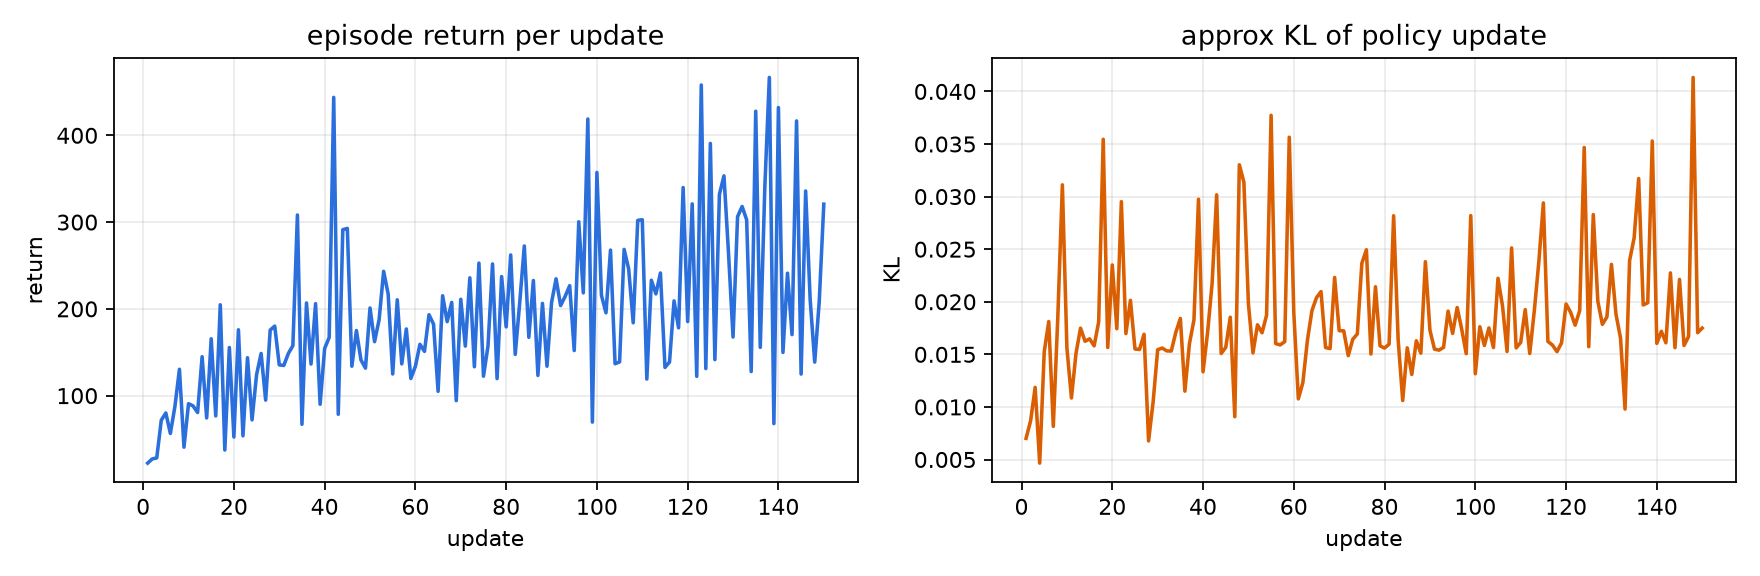
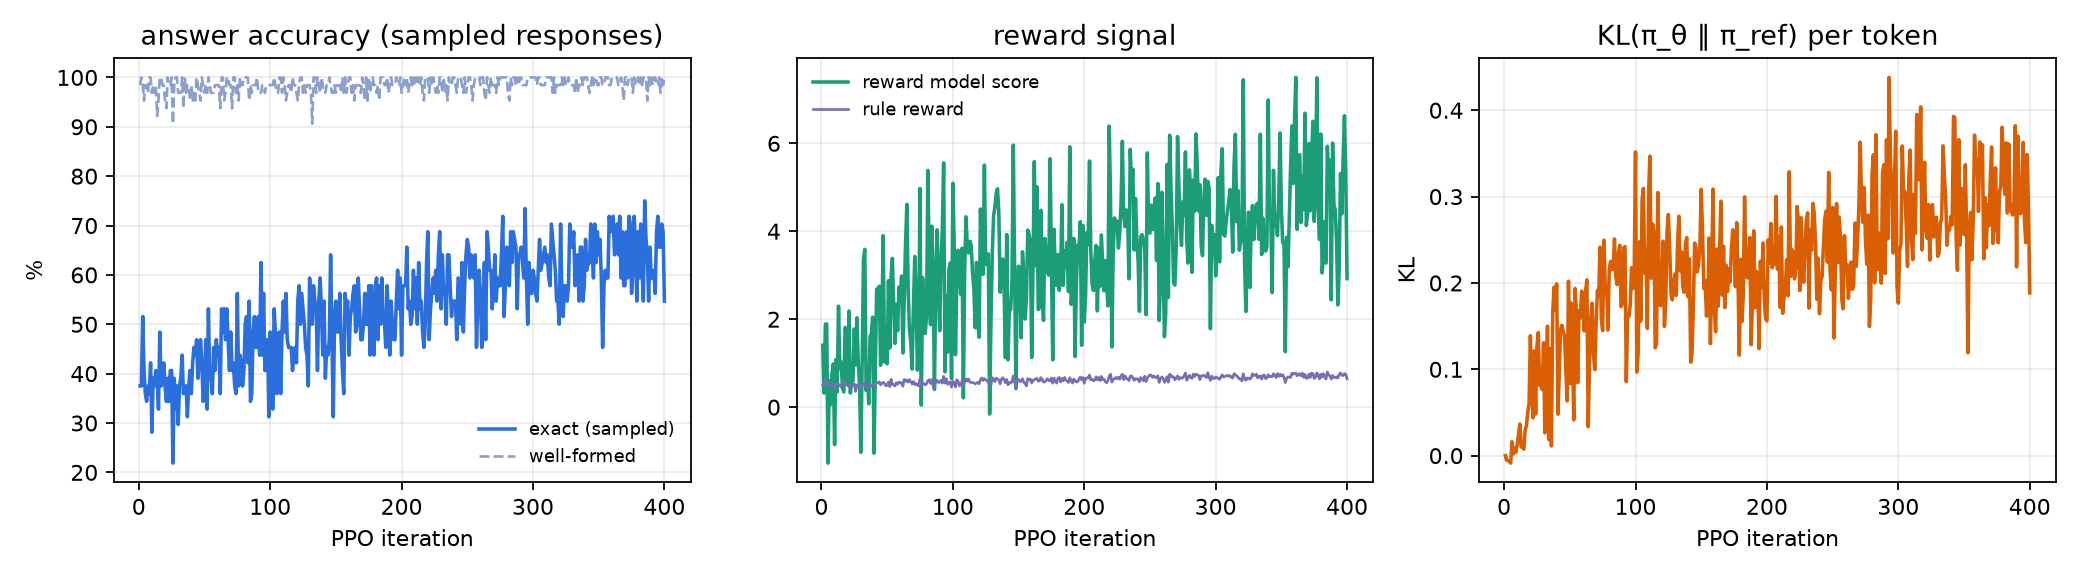
update ppo

diff --git a/17-ppo/ppo.py b/17-ppo/ppo.py
@@ -1,12 +1,10 @@
 """
 PPO for LLMs —— RLHF 中 PPO 的从零实现，单文件可运行。
 
-和 CartPole 版 PPO 的区别不在 clip，而在"状态、动作、奖励从哪来"：
-    CartPole       : 状态 = 4 维物理量，动作 = 左右推，奖励 = 环境每步给
-    LLM (RLHF)     : 状态 = prompt + 已生成的 token 前缀
-                     动作 = 下一个 token（词表大小 13）
-                     奖励 = 奖励模型给整条回答打分（只有句末一个稀疏奖励）
-                            + 每个 token 上对参考模型的 KL 惩罚
+LLM (RLHF)     : 状态 = prompt + 已生成的 token 前缀
+                    动作 = 下一个 token（词表大小 13）
+                    奖励 = 奖励模型给整条回答打分（只有句末一个稀疏奖励）
+                        + 每个 token 上对参考模型的 KL 惩罚
 
 这也是 InstructGPT 那一套三步流程，本文件把三步都实现出来：
     ① SFT        : 监督微调，得到初始策略 π_SFT（同时作为参考模型 π_ref 冻结）

diff --git a/17-ppo/README.md b/17-ppo/README.md
@@ -1089,7 +1089,7 @@ final: greedy exact 61.8% → 74.5%  (baseline SFT → after PPO)
 - `kl`：策略和参考模型的逐 token KL。稳定在 0.1~0.3 说明 KL 约束在起作用；一路冲到 1 以上通常意味着策略在钻奖励模型的空子。
 - `clip`：被截断的 token 比例。长期 0 说明更新太保守，长期高于 20% 说明步子太大。
 
-![learning curve](assets/learning_curve_llm.png)
+![learning curve](assets/learning_curve.png)
 
 左图是采样准确率与格式合规率，中图是奖励模型分与规则分，右图是 KL。规则分和奖励模型分同向上升、KL 没爆，是"奖励模型没有被攻击"的直接信号。
 
